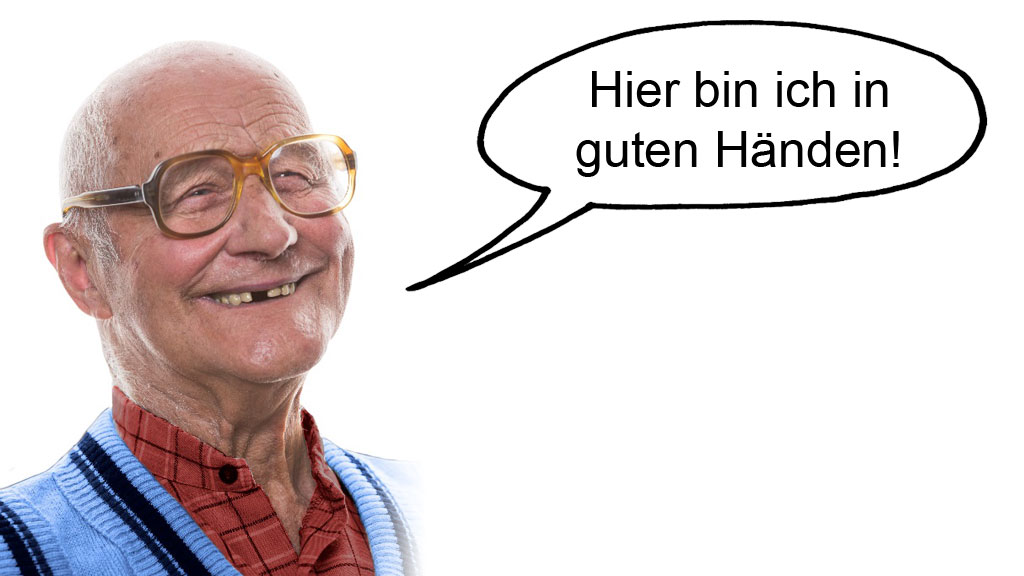
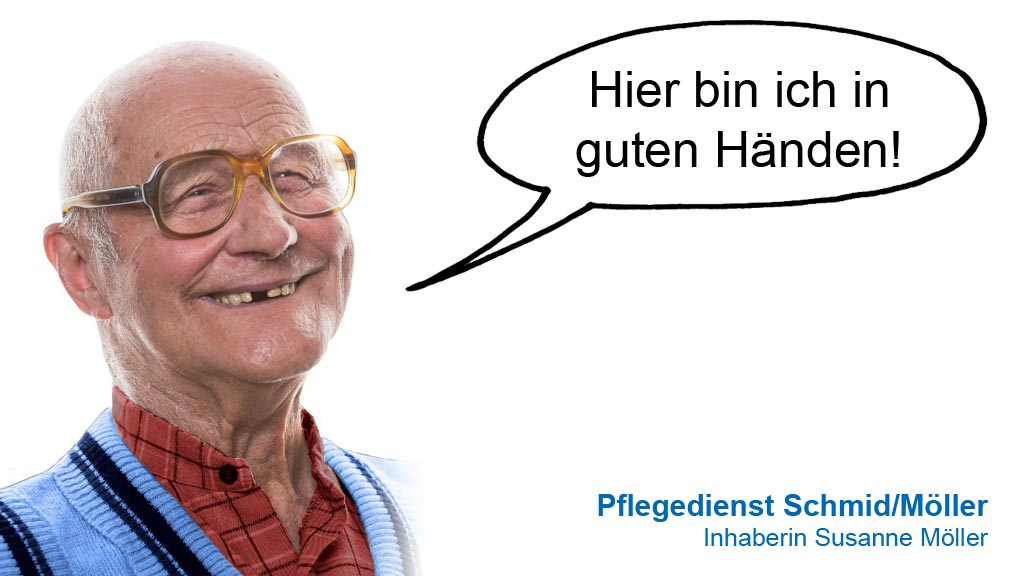
erfurt
19.5.

Changed region(s): [[0.5625, 0.8438, 0.9688, 0.9688]]

diff --git a/Erfurt-App NEU/Dienstleistung/Moeller/moeller.html b/Erfurt-App NEU/Dienstleistung/Moeller/moeller.html
@@ -106,7 +106,7 @@ function calculateRoute()
                 <img src="Opi.jpg" width="100%" />
     			<h3>Pflegedienst Schmid/Möller</h3>
     			<p align="justify">Seit über 26 Jahren pflegen, betreuen und behandeln wir Patienten in Erfurt, Sömmerda und Umgebung. Mit über 75 Mitarbeitern, die in den verschiedensten Berufsgruppen tätig sind, betreuen wir Menschen in allen Pflegegraden. Das Leistungsspektrum unseres Unternehmens reicht von der einfachen hauswirtschaftlichen Betreuung bis hin zur aufwendigen intensivmedizinischen Versorgung.
-In Erfurt betreiben wir 3 Wohnanlagen für betreutes Wohnen, mit insgesamt 111 barrierefreien oder altersgerechten Wohnungen. Zusätzlich bieten wir pflegebedürftigen Menschen eine Betreuung in unserer Tagesstätte, inkl. Hol- und Bringedienst.<br>
+In Erfurt betreiben wir 3 Wohnanlagen für Betreutes Wohnen, mit insgesamt 111 barrierefreien oder altersgerechten Wohnungen. Zusätzlich bieten wir pflegebedürftigen Menschen eine Betreuung in unserer Tagesstätte, inkl. Hol- und Bringedienst.<br>
 Rufen Sie uns an, wir beraten Sie gern.</p>
 
 			<div align="center" data-role="controlgroup" data-type="horizontal"><a href="tel:+493612114727" data-role="button" data-inline="true" data-mini="true">&nbsp;&nbsp;anrufen&nbsp;&nbsp;</a><a href="#" data-role="button" data-inline="true" data-mini="true" onClick="var ref = window.open('http://www.pflege-moeller.de', '_blank', 'closebuttoncaption=fertig');">Homepage</a></div>
